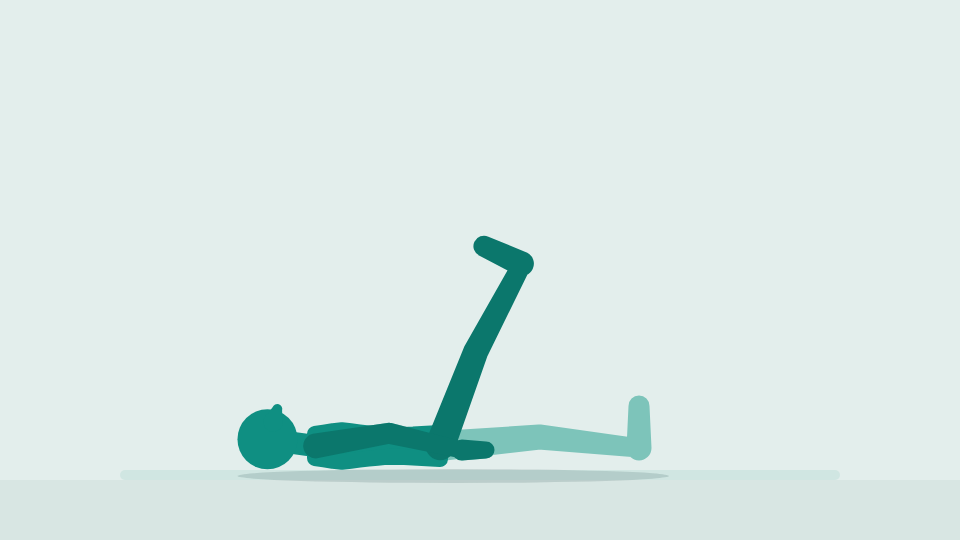
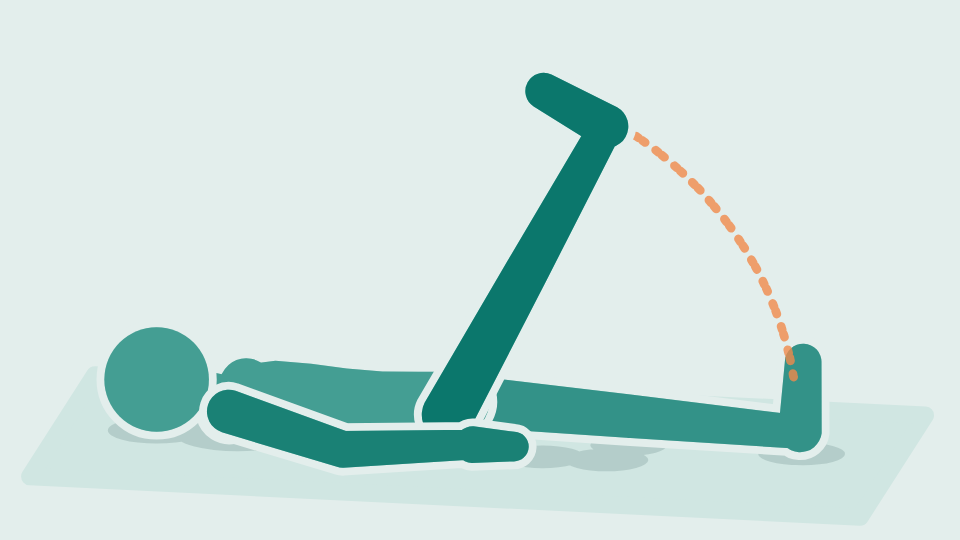
feat: add active straight leg raise animation and update related files

diff --git a/src/lib/rig3d.test.ts b/src/lib/rig3d.test.ts
@@ -1,6 +1,7 @@
 import { EXERCISES } from '@/data/exercises';
 import {
   ACTIVE_PANCAKE_3D,
+  ACTIVE_STRAIGHT_LEG_RAISE_3D,
   CAT_COW_3D,
   HIP_ABDUCTION_3D,
   HIP_EXTERNAL_ROTATION_3D,
@@ -288,6 +289,7 @@ describe('3D clips', () => {
       '90-to-90-side-foot-lifts',
       'pancake',
       'active-pancake',
+      'active-straight-leg-raise',
       'warmup-marching',
     ]));
   });
@@ -553,6 +555,28 @@ describe('3D clips', () => {
     });
     expect(Math.abs(lengths[0][0] - lengths[1][0])).toBeLessThan(3);
     expect(Math.abs(lengths[0][1] - lengths[1][1])).toBeLessThan(3);
+  });
+
+  it('lifts a straight leg by itself in active straight leg raise, the rest of the body still on the floor', () => {
+    const skeletons = samples(ACTIVE_STRAIGHT_LEG_RAISE_3D).map(solvePose);
+    const start = skeletons[0];
+    for (const { rightLeg, leftLeg, rightArm, leftArm, spine } of skeletons) {
+      for (const leg of [rightLeg, leftLeg]) expect(angleAt(leg[0], leg[1], leg[2])).toBeCloseTo(180);
+      expect(leftLeg[2][1]).toBeLessThan(14);
+      // Straight up, not out to the side.
+      expect(rightLeg[2][2]).toBeCloseTo(rightLeg[0][2]);
+      // No help from the hands: they stay on the floor by the sides, and the back stays flat.
+      expect(distance(rightArm[2], start.rightArm[2])).toBeCloseTo(0);
+      expect(distance(leftArm[2], start.leftArm[2])).toBeCloseTo(0);
+      for (const point of spine) expect(point[1]).toBeCloseTo(spine[0][1]);
+    }
+    const raised = ({ rightLeg }: Skeleton) => (Math.atan2(rightLeg[2][1] - rightLeg[0][1], rightLeg[2][0] - rightLeg[0][0]) * 180) / Math.PI;
+    expect(raised(start)).toBeLessThan(0);
+    expect(Math.max(...skeletons.map(raised))).toBeCloseTo(65 - 2.6);
+    expect(ACTIVE_STRAIGHT_LEG_RAISE_3D.strap).toBeUndefined();
+    // It comes down slower than it goes up.
+    const [, , up, , down] = ACTIVE_STRAIGHT_LEG_RAISE_3D.keyframes;
+    expect(down.ms).toBeGreaterThan(up.ms);
   });
 
   it('draws a strap only for a clip that has one, from hand to foot and back', () => {

diff --git a/src/data/exercise-animations-3d.ts b/src/data/exercise-animations-3d.ts
@@ -487,6 +487,36 @@ export const STRAIGHT_LEG_RAISE_3D: Clip3D = {
   ],
 };
 
+// --- Active straight leg raise: the same lift with no strap, the leg's own muscles raising it, arms by the sides ---
+
+/** The right leg straight and raised this far from the floor, the arms resting on the floor by the sides, palms down. */
+const activeLegRaisedAt = (degrees: number): Pose3 => ({
+  ...LYING_ON_BACK,
+  rightLeg: { flex: degrees + LEG_FLAT.flex! },
+  leftLeg: LEG_FLAT,
+  pins: KNEE_TO_CHEST_FLAT.pins,
+});
+const ACTIVE_LEG_DOWN = activeLegRaisedAt(0);
+/** A little short of where the strap takes it: a leg lifts less far by itself than it can be pulled. */
+const ACTIVE_LEG_UP = activeLegRaisedAt(65);
+
+export const ACTIVE_STRAIGHT_LEG_RAISE_3D: Clip3D = {
+  view: '3d',
+  // From the side and a little above, where the leg's swing up is flat on the screen.
+  camera: { yaw: 10, pitch: 16 },
+  highlight: ['rightLeg'],
+  trail: 'rightFoot',
+  stillFrame: 2,
+  // Up, a short hold at the top, and a slower way down, as the instructions ask.
+  keyframes: [
+    { ms: 0, pose: ACTIVE_LEG_DOWN },
+    { ms: 300, pose: ACTIVE_LEG_DOWN },
+    { ms: 1500, pose: ACTIVE_LEG_UP },
+    { ms: 500, pose: ACTIVE_LEG_UP },
+    { ms: 2200, pose: ACTIVE_LEG_DOWN },
+  ],
+};
+
 // --- Marching: standing tall, knees lifting to hip height in turn, arms swinging opposite ---
 
 const MARCH_STAND: Pose3 = STANDING;

diff --git a/src/data/exercises.ts b/src/data/exercises.ts
@@ -6,6 +6,7 @@ import type { ScoreArea } from './mobility-score';
 
 import {
   ACTIVE_PANCAKE_3D,
+  ACTIVE_STRAIGHT_LEG_RAISE_3D,
   CAT_COW_3D,
   LEG_SWINGS_3D,
   NINETY_TO_NINETY_3D,
@@ -15,7 +16,6 @@ import {
 } from './exercise-animations-3d';
 
 import {
-  ACTIVE_STRAIGHT_LEG_RAISE,
   ANKLE_MOBILIZATION,
   BACK_LYING_REVERSE_PIGEON,
   BEHIND_THE_BACK_CHEST_OPENER,
@@ -1079,7 +1079,7 @@ const ALL_EXERCISES: Exercise[] = [
       'Lower it slowly and keep repeating, then switch sides',
     ],
     photo: require('@/assets/images/exercises/active-straight-leg-raise.png'),
-    animation: ACTIVE_STRAIGHT_LEG_RAISE,
+    animation: ACTIVE_STRAIGHT_LEG_RAISE_3D,
     twoSided: true,
     active: true,
   },

diff --git a/README.md b/README.md
@@ -138,16 +138,16 @@ Moved to the new engine:
 | 90 to 90 side foot lifts | Library | `NINETY_TO_NINETY_SIDE_FOOT_LIFTS_3D` |
 | Pancake | Library | `PANCAKE_3D` |
 | Active pancake | Library | `ACTIVE_PANCAKE_3D` |
+| Active straight leg raise | Library | `ACTIVE_STRAIGHT_LEG_RAISE_3D` |
 
 Still on the old engine (clip names in `exercise-animations.ts`). Where a clip needs something the new engine doesn't have yet, it's noted.
 
-All ten flexibility tests are on the new engine. The last six to move (knee to wall, the two seated hip rotations, sit and reach, knee to chest and straight leg raise) haven't been checked on a device yet, so their old clips are still in `exercise-animations.ts`; delete them once they have. The same goes for the three 90 to 90 clips in the library (`NINETY_TO_NINETY_ROTATIONS` has to stay either way: windshield wipers with knee lift is built on it), and for the two pancake clips (`PANCAKE_UP` has to stay either way: the seated straddle side bend is built on it).
+All ten flexibility tests are on the new engine. The last six to move (knee to wall, the two seated hip rotations, sit and reach, knee to chest and straight leg raise) haven't been checked on a device yet, so their old clips are still in `exercise-animations.ts`; delete them once they have. The same goes for the three 90 to 90 clips in the library (`NINETY_TO_NINETY_ROTATIONS` has to stay either way: windshield wipers with knee lift is built on it), and for the two pancake clips (`PANCAKE_UP` has to stay either way: the seated straddle side bend is built on it), and for the active straight leg raise.
 
 Library (`src/data/exercises.ts`):
 
 | Exercise | Clip | Needs |
 |---|---|---|
-| Active straight leg raise | `ACTIVE_STRAIGHT_LEG_RAISE` | |
 | Ankle mobilization | `ANKLE_MOBILIZATION` | |
 | Back lying reverse pigeon | `BACK_LYING_REVERSE_PIGEON` | |
 | Behind the back chest opener | `BEHIND_THE_BACK_CHEST_OPENER` | |
